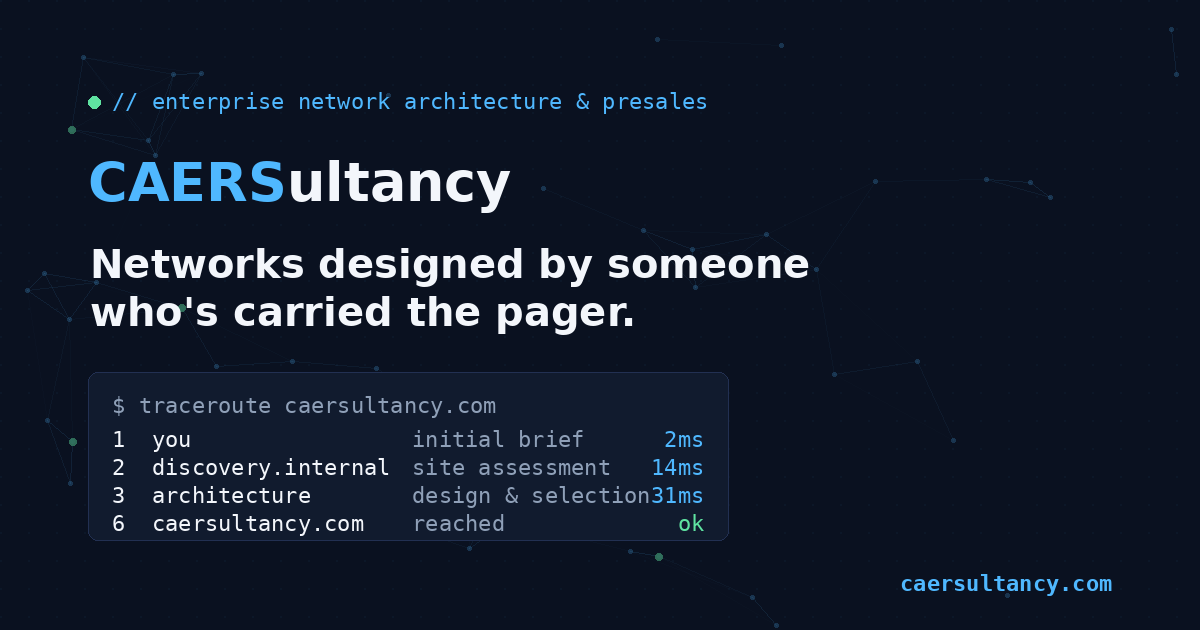
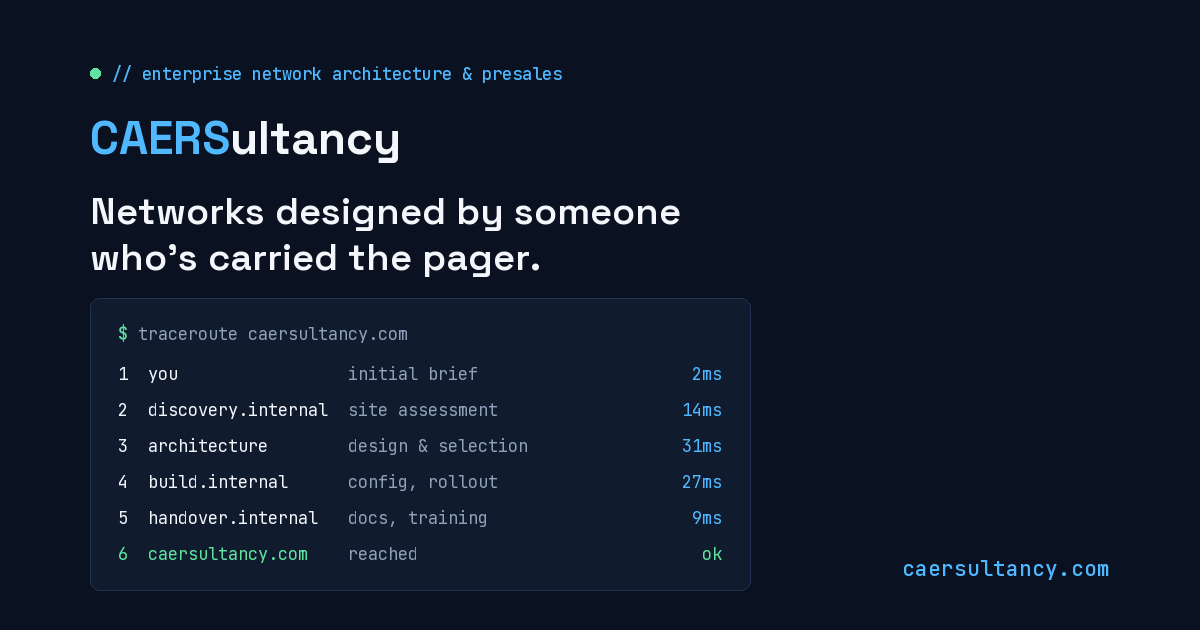
Polish wireless copy, fix OG image, add SEO basics
- Tidy up the unfinished "environments of all kind..." sentence on
  the wireless & site design card
- Regenerate og-image.png so its traceroute matches the live page's
  6 hops instead of the stale 4-hop version
- Add robots.txt and sitemap.xml for search indexing

diff --git a/index.html b/index.html
@@ -108,7 +108,7 @@
       <div class="card reveal">
         <div class="ip">10.0.2.1</div>
         <h3>Wireless & site design</h3>
-        <p>Ekahau-driven Wi-Fi design and validation for environments where "it mostly works" isn't good enough. Environments of all kind, think offices, production sites, warehouses,...</p>
+        <p>Ekahau-driven Wi-Fi design and validation for environments where "it mostly works" isn't good enough — offices, production sites, warehouses, and everything in between.</p>
       </div>
       <div class="card reveal">
         <div class="ip">10.0.3.1</div>
